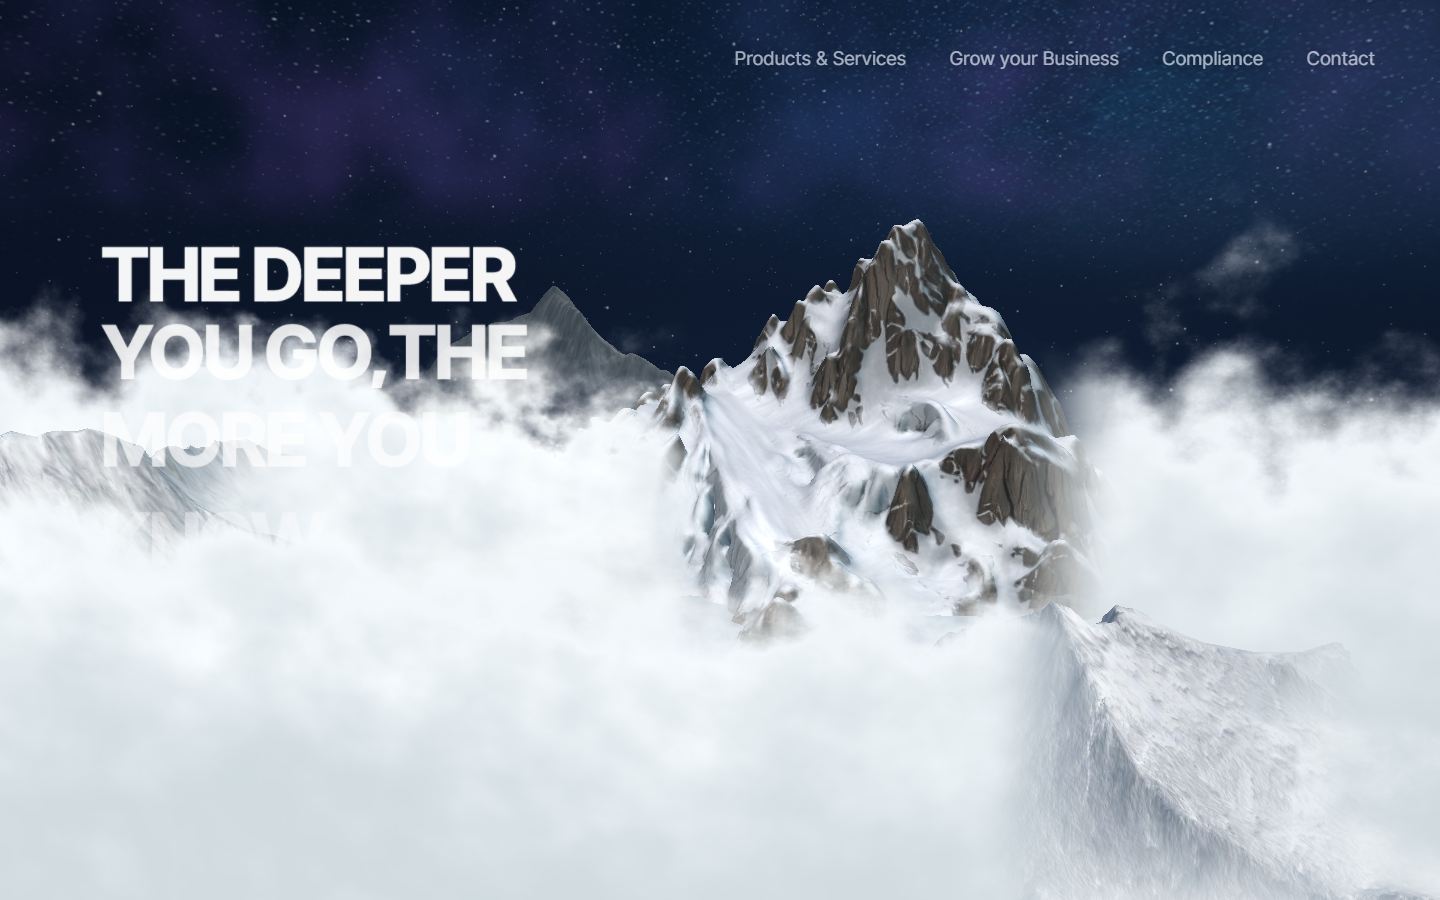
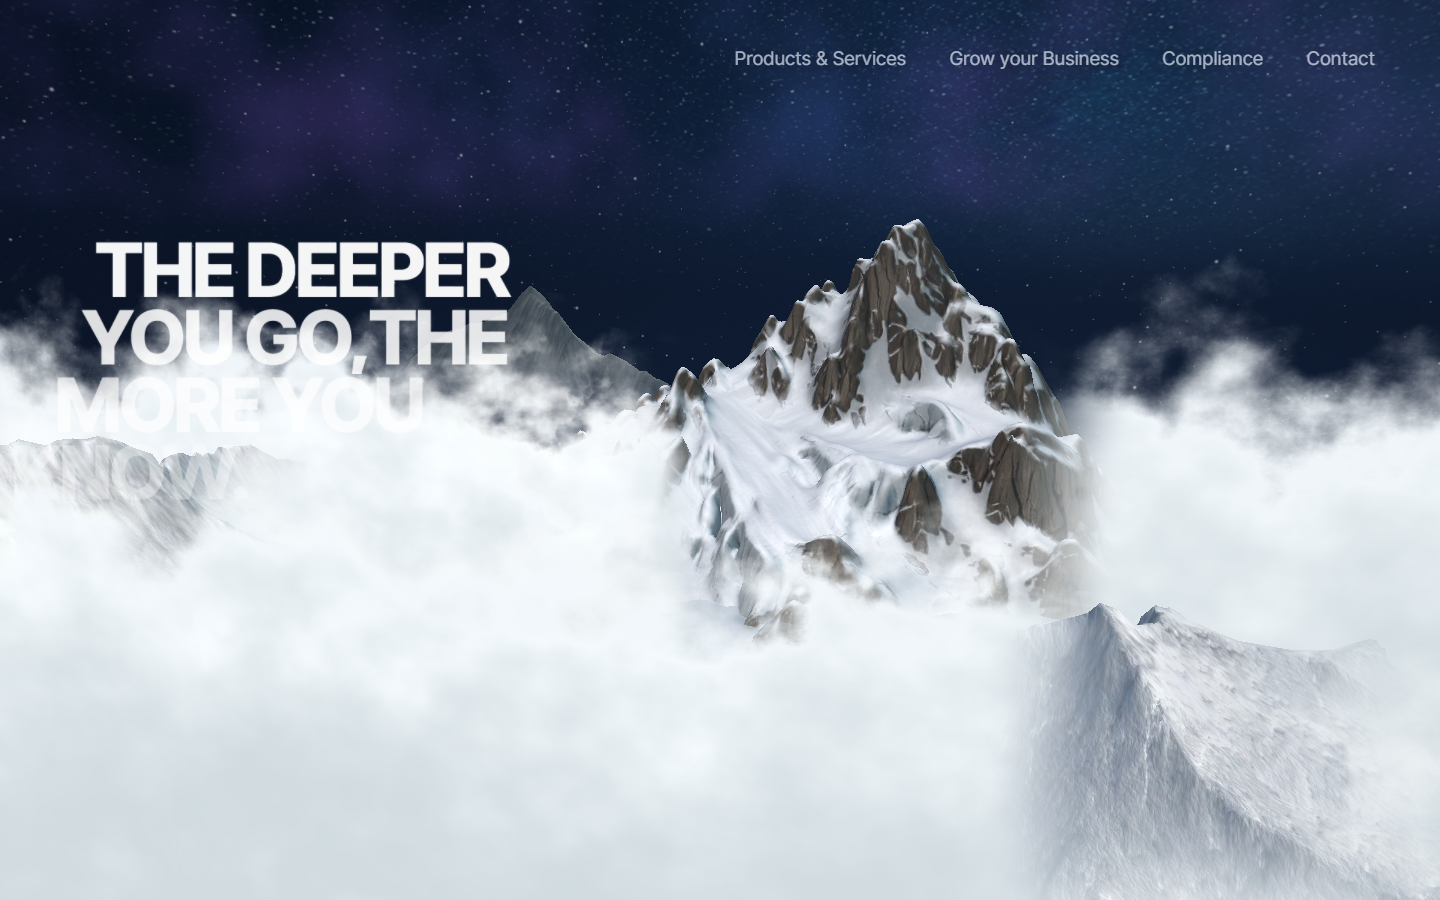
aan test 7: hero lines slide in from the left

diff --git a/aan test 7/src/hero-text.js b/aan test 7/src/hero-text.js
@@ -6,8 +6,8 @@ import * as THREE from 'three';
  * Each line is its own textured quad parented to the camera (screen-locked,
  * like the cloud quads), drawn between the middle-ground clouds (renderOrder −1)
  * and the foreground clouds (+1), so the foreground cloud plates genuinely pass
- * in front of the lower lines. On load the lines slide up from below one after
- * another (staircase). Nothing happens to the text on scroll.
+ * in front of the lower lines. On load the lines slide in from the left one
+ * after another (staircase). Nothing happens to the text on scroll.
  */
 
 export const HERO_TEXT = {
@@ -21,8 +21,8 @@ export const HERO_TEXT = {
 	top: 0.265,         // block top edge
 	height: 0.30,       // block height (all lines)
 	renderOrder: 0.5,   // between the cloud quads: middle-ground −1 … foreground +1
-	// load-in: every line rises from below and fades in; the next line starts `stagger` seconds later
-	reveal: { delay: 0.5, duration: 1.3, stagger: 0.22, rise: 0.12 },   // rise = fraction of viewport height
+	// load-in: every line slides in from the left and fades in; the next line starts `stagger` seconds later
+	reveal: { delay: 0.5, duration: 1.3, stagger: 0.22, slide: 0.10 },  // slide = fraction of viewport width
 };
 
 const vertex = /* glsl */ `
@@ -92,10 +92,10 @@ export async function createHeroText({ camera }) {
 		mesh.renderOrder = cfg.renderOrder;
 		mesh.frustumCulled = false;
 		group.add(mesh);
-		return { mesh, material, aspect: t.aspect, padFrac: t.padFrac, baseY: 0 };
+		return { mesh, material, aspect: t.aspect, padFrac: t.padFrac, baseX: 0 };
 	});
 
-	const base = { screenH: 1 };
+	const base = { screenW: 1 };
 	function layout() {
 		const D = cfg.distance;
 		const screenH = 2 * D * Math.tan(THREE.MathUtils.degToRad(camera.fov) / 2);
@@ -108,10 +108,10 @@ export async function createHeroText({ camera }) {
 			const w = lineH * l.aspect;
 			l.mesh.scale.set(w, lineH, 1);
 			// the canvas has padding; shift so the glyphs' left edge sits on the block's left edge
-			l.baseY = top - lineH * (i + 0.5);
-			l.mesh.position.set(left + w / 2 - l.padFrac * w, l.baseY, -D);
+			l.baseX = left + w / 2 - l.padFrac * w;
+			l.mesh.position.set(l.baseX, top - lineH * (i + 0.5), -D);
 		});
-		base.screenH = screenH;
+		base.screenW = screenW;
 	}
 	layout();
 
@@ -122,7 +122,7 @@ export async function createHeroText({ camera }) {
 		lines.forEach((l, i) => {
 			const k = THREE.MathUtils.clamp((t - i * cfg.reveal.stagger) / cfg.reveal.duration, 0, 1);
 			const e = 1 - Math.pow(1 - k, 3);   // ease-out cubic
-			l.mesh.position.y = l.baseY - (1 - e) * cfg.reveal.rise * base.screenH;
+			l.mesh.position.x = l.baseX - (1 - e) * cfg.reveal.slide * base.screenW;
 			l.material.uniforms.uAlpha.value = e;
 		});
 	}

diff --git a/aan test 7/MOUNTAIN-REPLACEMENT.md b/aan test 7/MOUNTAIN-REPLACEMENT.md
@@ -275,4 +275,4 @@ Edge identified: on wide viewports at zoom 1.6 the **vertical borders of the out
 
 ## 14. Cloud sea + hero statement
 - `src/cloud-floor.js` (`CLOUD_FLOOR`) — world-fixed cloud sea under the mountain: three noise-displaced, patchy discs (y −4 / −8 / −13, radius 340, rim + view-distance fade so the far horizon stays dark), drawn before the camera-relative cloud quads; the bottom layer writes depth so the route / markers / far peak feet sink into it. `SETTINGS.cloudEdgeFeather` (0.16, was 0.1) softens the quads' solid-core edge. Tune panel folder "Cloud sea".
-- `src/hero-text.js` (`HERO_TEXT`) — "The deeper you go, the more you know." as a camera-parented textured quad (Inter Tight 800, canvas texture) drawn between the middle-ground and foreground cloud quads, so the near clouds veil the lower lines. One quad per line; after load the lines rise and fade in one after another (0.5 s delay, 1.3 s each, 0.22 s stagger — a staircase). Nothing happens to the text on scroll. Previews: `previews/hero-text/`, `previews/floor/`.
+- `src/hero-text.js` (`HERO_TEXT`) — "The deeper you go, the more you know." as a camera-parented textured quad (Inter Tight 800, canvas texture) drawn between the middle-ground and foreground cloud quads, so the near clouds veil the lower lines. One quad per line; after load the lines slide in from the left and fade in one after another (0.5 s delay, 1.3 s each, 0.22 s stagger — a staircase). Nothing happens to the text on scroll. Previews: `previews/hero-text/`, `previews/floor/`.
